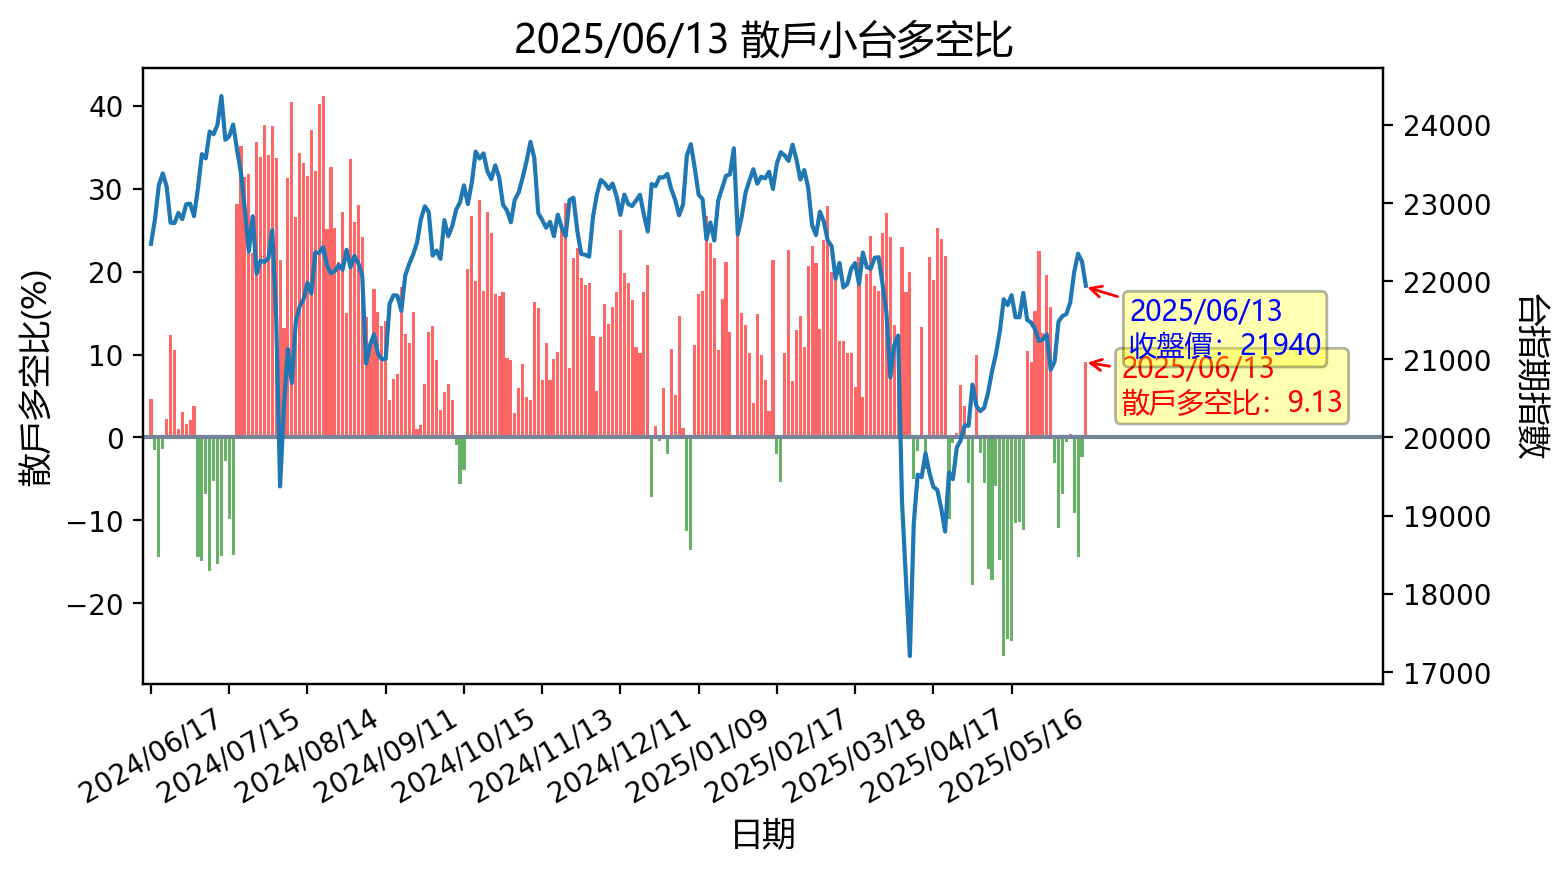
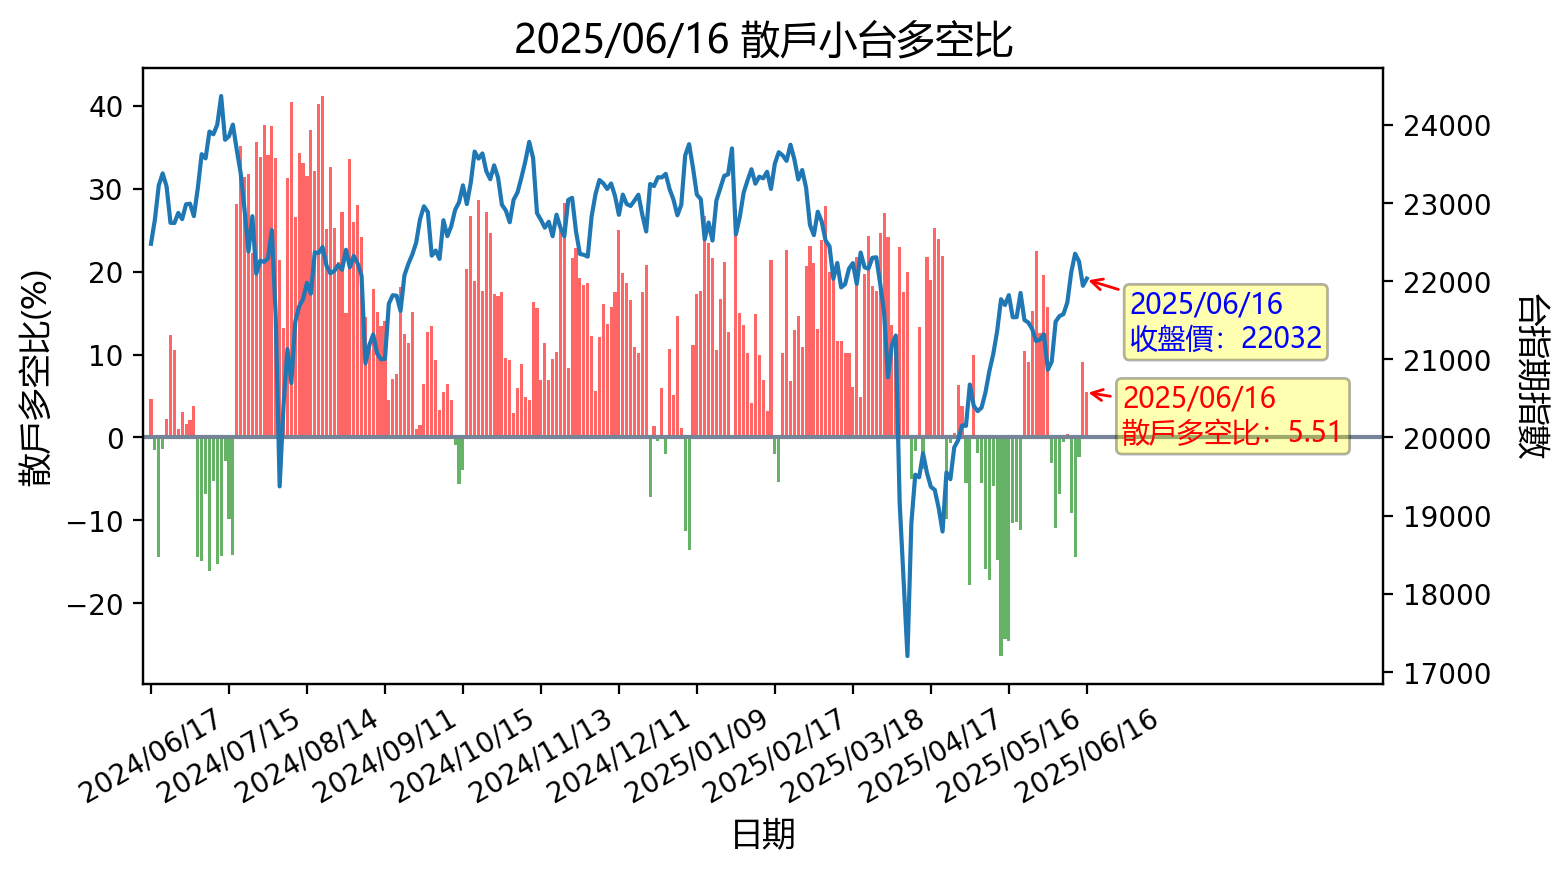
更新時間: Mon Jun 16 16:44:25 CST 2025

diff --git a/README.md b/README.md
@@ -1,12 +1,12 @@
-## 20250615 台指期「預估換倉成本」
+## 20250616 台指期「預估換倉成本」
 ![](images/txfcost.png)
 
-## 20250615 台指期「散戶小台多空比」
+## 20250616 台指期「散戶小台多空比」
 ![](images/bbiri.png)
 
-## 20250615 台指選擇權「Put/Call Ratios」
+## 20250616 台指選擇權「Put/Call Ratios」
 ![](images/pcratio.png)
 
-## 20250615 台指期「大額交易人」
+## 20250616 台指期「大額交易人」
 ![](images/blocktrade.png)
 
